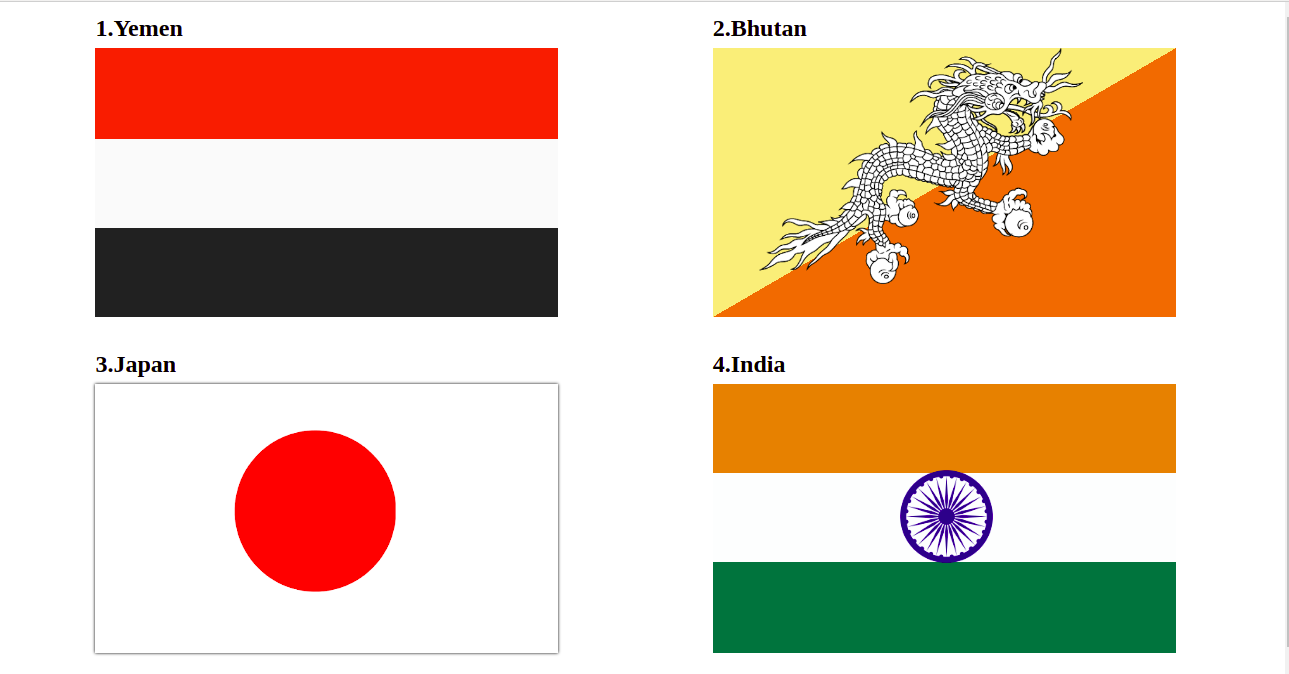
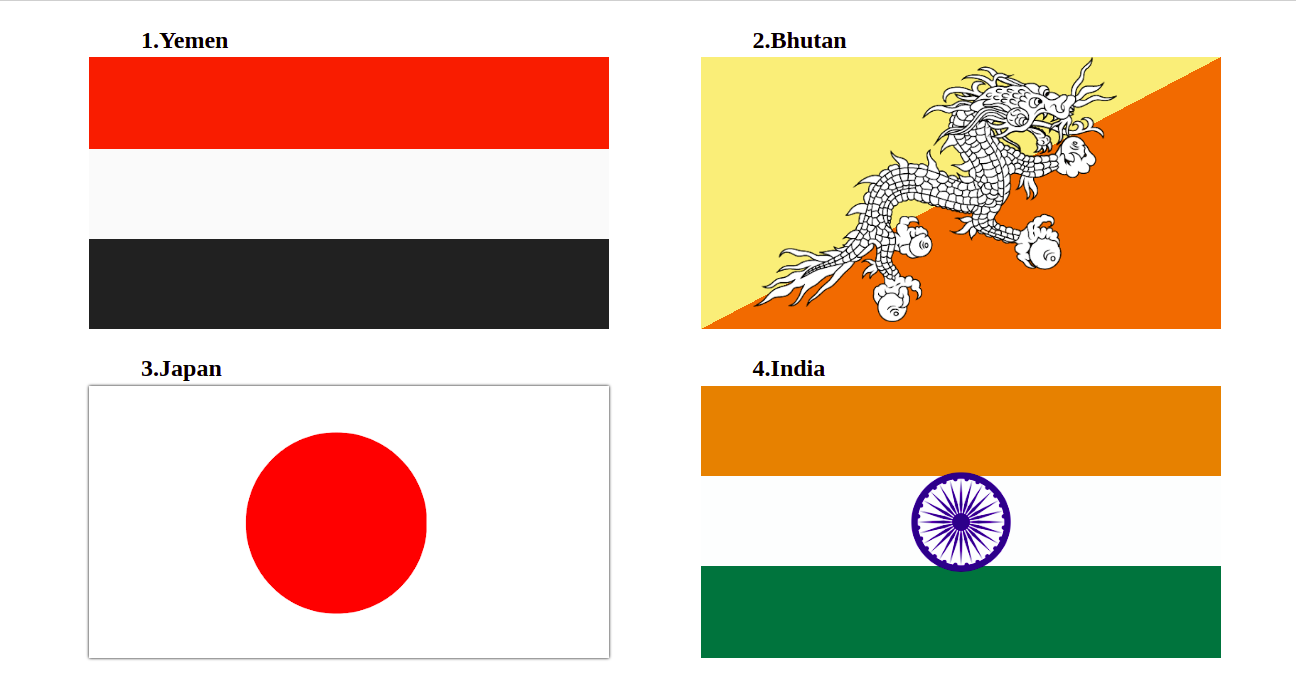
added few changes

diff --git a/photos/photo.js b/photos/photo.js
@@ -1,8 +1,8 @@
 var imglist = ["Darjeeling.jpg","Dudhsagar-Falls.jpg","goa.jpg","Gulmarg.jpg","kodaikanal-hills.jpg","Leh-Ladakh.jpg","manali.jpg","Ooty-2.jpg"];
 var num = 0;
 function Start(){
-	document.getElementById("prev").style.backgroundImage = "url("+imglist[imglist.length-1]+")";
 	document.getElementById("center").style.backgroundImage = "url("+imglist[num]+")";
+	document.getElementById("prev").style.backgroundImage = "url("+imglist[imglist.length-1]+")";
 	document.getElementById("next").style.backgroundImage = "url("+imglist[num+1]+")";
 	
 }
@@ -28,7 +28,7 @@ function next(){
 			document.getElementById("next").style.backgroundImage = "url("+imgList[0]+")";
 		}
 		else{
-		document.getElementById("next").style.backgroundImage = "url("+imglist[num+1]+")";
+			document.getElementById("next").style.backgroundImage = "url("+imglist[num+1]+")";
 		}
 	}
 }
@@ -57,7 +57,7 @@ function prev(){
 }
 function preview(){
 	for(var i = 0; i < imglist.length;i++){
-	document.getElementById("preview").innerHTML += "<img id = 'img"+i+"' onclick = 'photo("+'"'+imglist[i]+'"'+")'  src='"+imglist[i]+"'"+"/"+">";
+		document.getElementById("preview").innerHTML += "<img id = 'img"+i+"' onclick = 'photo("+'"'+imglist[i]+'"'+")'  src='"+imglist[i]+"'"+"/"+">";
 	}	
 }
 preview();

diff --git a/gradient/flag.css b/gradient/flag.css
@@ -5,37 +5,32 @@ body{
 #home{
 	height:100%;
 	width:100%;
-	margin-top: 1%;
 }
 #yemen{
 	float:left;
-	margin-left:10%;
-	height:80%;
-	width:80%;
+	height:90%;
+	width:100%;
 	background-image:linear-gradient(to top, #212121 33%,#fafafa 33% 66%,#f44336 66%);
 }
 #bhutan{
 	float:left;
-	margin-left:10%;
-	height:80%;
-	width:80%;
+	height:90%;
+	width:100%;
 	position:relative;
 	background-image:linear-gradient(to top left ,#ef6c00 50%,#ffe082 50%);
 }
 #japan{
 	float:left;
-	margin-left:10%;
-	height:80%;
-	width:80%;
+	height:90%;
+	width:100%;
 	position:relative;
 	background-color:white;
 	box-shadow: 0 0 3px black;
 }
 #india{
 	float:left;
-	margin-left:10%;
-	height:80%;
-	width:80%;
+	height:90%;
+	width:100%;
 	position:relative;
 	background-image:linear-gradient(to bottom,#E67E22 33%,#FDFEFE 33% 66%,#186A3B 66%);
 }
@@ -54,13 +49,14 @@ body{
 	position:absolute;
 	left:40%;
 	top:31%;
-	width:21%;
+	width:20%;
 }
 .div1{
 	float:left;
-	height:50%;
-	width:45%;
-	margin-left:3%;
+	height:45%;
+	width:40%;
+	margin-left:7%;
+	margin-top:2%;
 }
 h2{
 	width: 80%;

diff --git a/index.html b/index.html
@@ -13,9 +13,9 @@
 				<ul id = "nav-keys">
 					<a href="#"><li id = "home-li"class = "nav-li">Home</li></a>
 				
-					<a href = "#project"><li class = "nav-li">About Me</li></a>
+					<a href = "#mydetail"><li class = "nav-li">About Me</li></a>
 				
-					<a href = "#mydetail">
+					<a href = "#project">
 						<li class = "nav-li">Project</li>
 					</a>
 					<a href = "#contact">
@@ -37,7 +37,7 @@
 					<p id = "para"><strong>Hi!</strong></p>
 					<p id = "intro"> I'm Mahalakshmi
 					<br>I am enthusiastic learner<br>
-					<br>I know basics of the programming languages, Python,Java,Javascript,HTML,CSS
+					<br>I have learnt basics of the programming languages Python, Java, Javascript, HTML, CSS
 					</p>
 					<h1 id = "inner-head1">My Achievements</h1>
 					<h2  id = "inner-head2">Hackerrank</h2>
